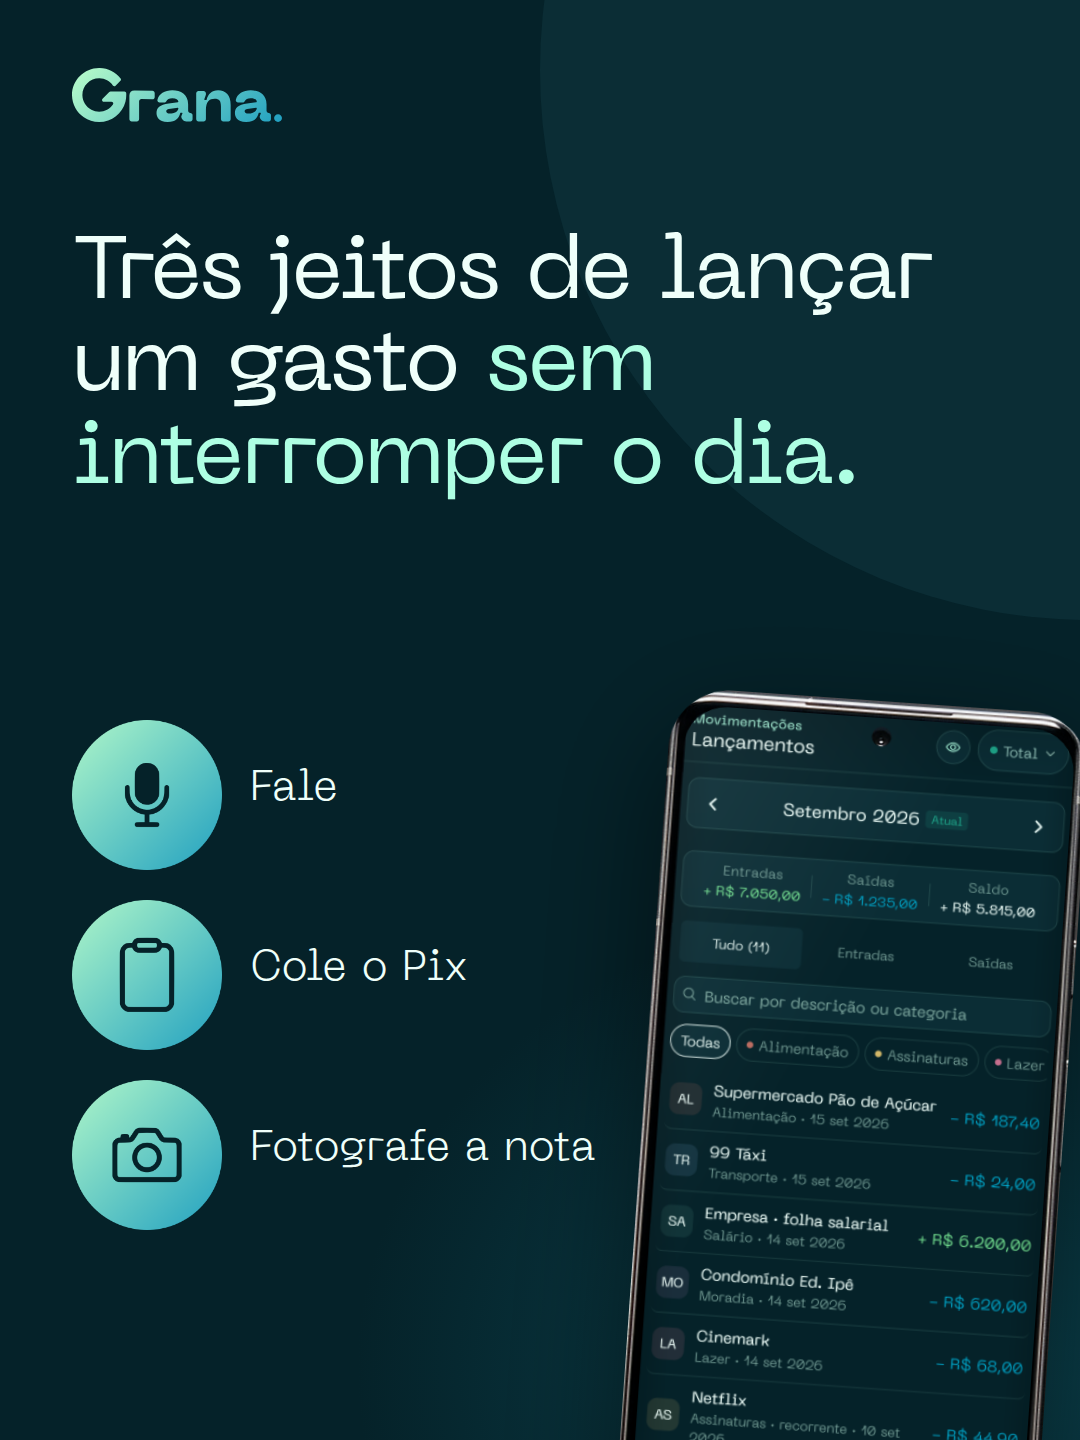
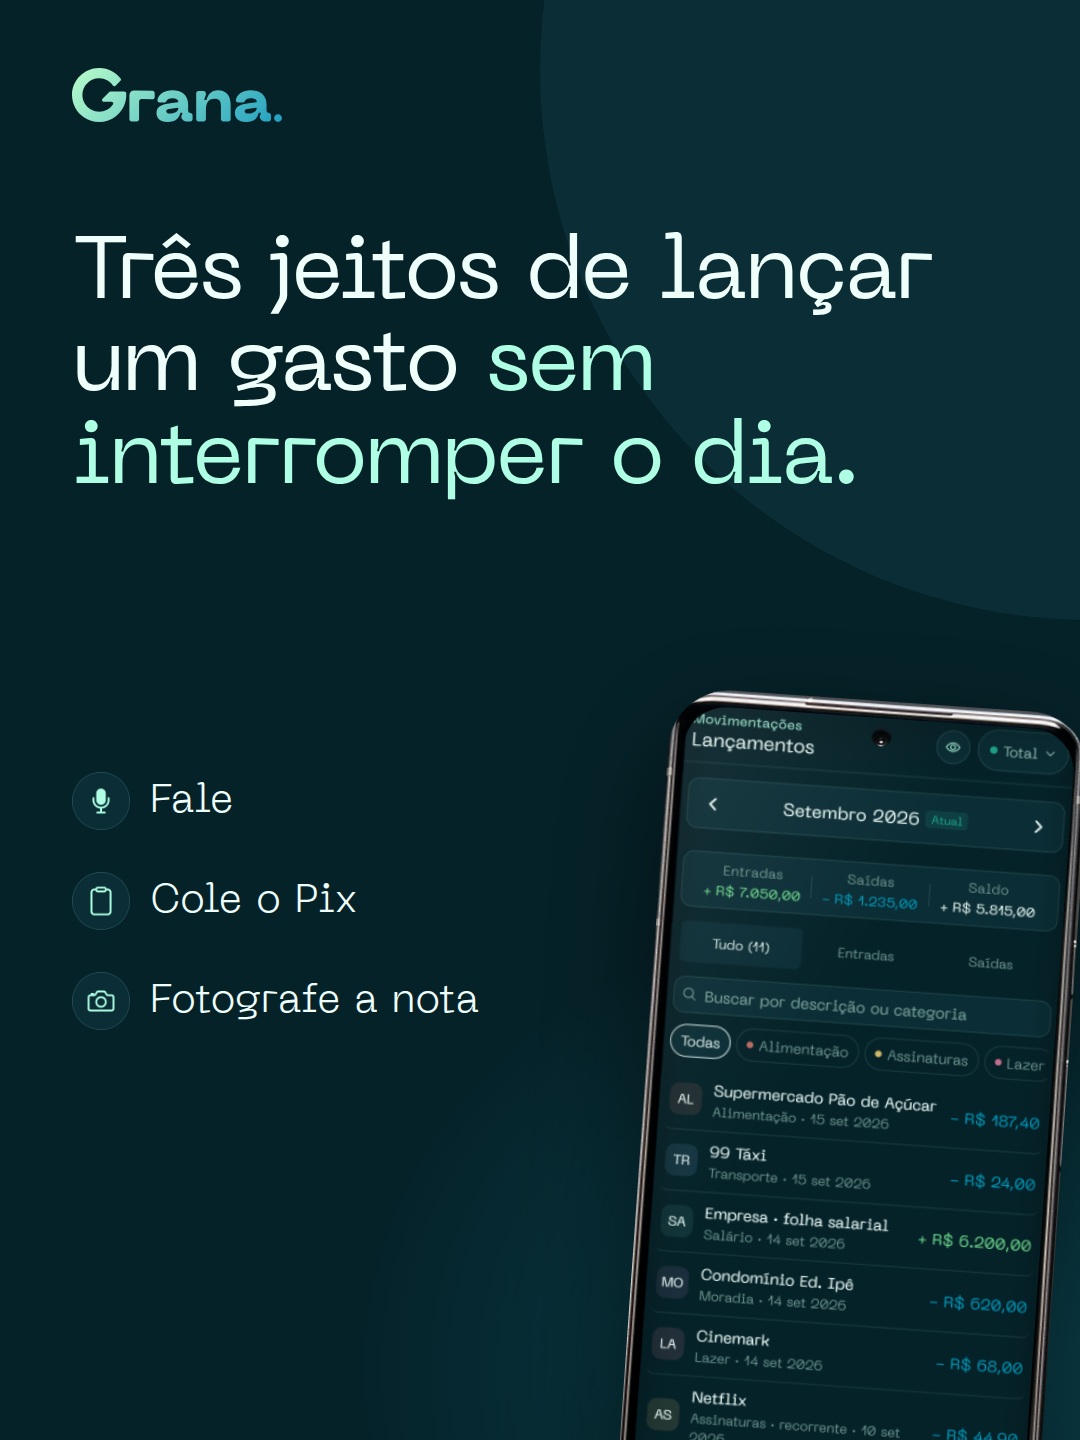
docs(marketing): S2 com icones so como detalhe; regra no guia de producao
Claude-Session: https://claude.ai/code/session_01Fv8uFkxWiJMthXkKAtJfu8

Changed region(s): [[0.0611, 0.5, 0.55, 0.875], [0.275, 0.5938, 0.3056, 0.625]]

diff --git a/docs/marketing/funil-criativos-flat-2026-09/S2-tres-jeitos/S2.html b/docs/marketing/funil-criativos-flat-2026-09/S2-tres-jeitos/S2.html
@@ -21,18 +21,26 @@ em{font-style:normal;color:#aeffe3}
 .fala b{font-weight:400;color:#aeffe3}
 .arc{position:absolute;border-radius:50%}
 .cta{position:absolute;left:0;right:0;text-align:center;font-family:NM;color:#effffa}
+.cupom{position:absolute;left:390px;top:640px;width:300px;height:520px;background:#eef1ea;border-radius:6px;padding:40px 34px;transform:rotate(-6deg);box-shadow:0 30px 60px rgba(0,0,0,.45);z-index:2}
+.cupom i{display:block;height:14px;border-radius:7px;background:#c9cfc8;margin:0 0 22px;width:90%}
+.cupom b{display:block;height:3px;background:repeating-linear-gradient(90deg,#b7beb6 0 10px,transparent 10px 18px);margin:10px 0 30px}
+.mira{position:absolute;left:330px;top:600px;width:420px;height:600px;z-index:3}
+.mira span{position:absolute;width:70px;height:70px;border:6px solid #aeffe3;border-radius:0}
+.mira .k1{left:0;top:0;border-right:0;border-bottom:0;border-top-left-radius:24px}.mira .k2{right:0;top:0;border-left:0;border-bottom:0;border-top-right-radius:24px}
+.mira .k3{left:0;bottom:0;border-right:0;border-top:0;border-bottom-left-radius:24px}.mira .k4{right:0;bottom:0;border-left:0;border-top:0;border-bottom-right-radius:24px}
+.passos img{width:52px;height:52px}
 </style></head><body>
 <!-- 1 capa -->
 <div class="s" id="s1">
  <div class="arc" style="width:1100px;height:1100px;right:-560px;top:-480px;background:#0b2d35"></div>
  <img class="logo" src="../../../../design-system/marca/logotipo-gradiente.svg">
  <div class="h1" style="top:230px;width:960px;font-size:88px">Três jeitos de lançar um gasto <em>sem interromper o dia.</em></div>
- <img class="big" src="../../arsenal/icones/voz-gradiente.png" style="left:72px;top:720px;width:150px">
- <img class="big" src="../../arsenal/icones/colar-comprovante-gradiente.png" style="left:72px;top:900px;width:150px">
- <img class="big" src="../../arsenal/icones/foto-da-nota-gradiente.png" style="left:72px;top:1080px;width:150px">
- <div class="fala" style="left:250px;top:763px;font-size:42px">Fale</div>
- <div class="fala" style="left:250px;top:943px;font-size:42px">Cole o Pix</div>
- <div class="fala" style="left:250px;top:1123px;font-size:42px">Fotografe a nota</div>
+ <img class="big" src="../../arsenal/icones/voz-petroleo.png" style="left:72px;top:772px;width:58px">
+ <img class="big" src="../../arsenal/icones/colar-comprovante-petroleo.png" style="left:72px;top:872px;width:58px">
+ <img class="big" src="../../arsenal/icones/foto-da-nota-petroleo.png" style="left:72px;top:972px;width:58px">
+ <div class="fala" style="left:150px;top:776px;font-size:40px">Fale</div>
+ <div class="fala" style="left:150px;top:876px;font-size:40px">Cole o Pix</div>
+ <div class="fala" style="left:150px;top:976px;font-size:40px">Fotografe a nota</div>
  <div class="ph" data-k="1.05" style="left:640px;top:700px;transform:rotate(4deg)"><div class="body"></div><div class="scr"><img src="telas/cel-lanc-tela.png"></div></div>
 </div>
 <!-- 2 fale -->
@@ -40,8 +48,8 @@ em{font-style:normal;color:#aeffe3}
  <img class="logo" src="../../../../design-system/marca/logotipo-gradiente.svg"><div class="passos" data-on="0"></div>
  <div class="h1"><em>1.</em> Fale o que aconteceu.</div>
  <div class="h2" style="top:420px">Pagou? Toque no widget e fale o gasto. O Grana. lança sem abrir o app.</div>
- <img class="big" src="../../arsenal/icones/voz-gradiente.png" style="left:72px;top:690px;width:230px">
- <div class="fala" style="left:340px;top:700px;width:670px">“Pão na padaria, <b>três e cinquenta e sete</b>, no débito.”</div>
+ 
+ <div class="fala" style="left:72px;top:660px;width:900px;font-size:50px">“Pão na padaria, <b>três e cinquenta e sete</b>, no débito.”</div>
  <img class="nt" src="../../arsenal/notificacoes/gasto-salvo-padaria.png" style="left:110px;top:1000px;width:860px">
 </div>
 <!-- 3 cole -->
@@ -56,7 +64,8 @@ em{font-style:normal;color:#aeffe3}
  <img class="logo" src="../../../../design-system/marca/logotipo-gradiente.svg"><div class="passos" data-on="2"></div>
  <div class="h1"><em>3.</em> Fotografe a nota.</div>
  <div class="h2" style="top:420px">Uma foto do cupom e o Grana. lê o valor total sozinho.</div>
- <img class="big" src="../../arsenal/icones/foto-da-nota-gradiente.png" style="left:50%;top:700px;width:400px;margin-left:-200px">
+ <div class="cupom"><i></i><i style="width:70%"></i><i style="width:85%"></i><i style="width:60%"></i><i style="width:78%"></i><i style="width:52%"></i><b></b><i style="width:66%"></i><i style="width:74%"></i></div>
+ <div class="mira"><span class="k1"></span><span class="k2"></span><span class="k3"></span><span class="k4"></span></div>
 </div>
 <!-- 5 organiza -->
 <div class="s" id="s5">
@@ -85,6 +94,6 @@ em{font-style:normal;color:#aeffe3}
 document.querySelectorAll('.ph').forEach(p=>{const k=+p.dataset.k;const W=401*k,H=876*k;p.style.width=W+'px';p.style.height=H+'px';
  const b=p.querySelector('.body');b.style.borderRadius=(58*k)+'px';b.style.backgroundSize=`${2048*k}px ${1152*k}px`;b.style.backgroundPosition=`${-831*k}px ${-115*k}px`;
  const s=p.querySelector('.scr');Object.assign(s.style,{left:14*k+'px',top:16*k+'px',width:373*k+'px',height:846*k+'px',borderRadius:40*k+'px'})});
-document.querySelectorAll('.passos').forEach(p=>{const on=+p.dataset.on;p.innerHTML=['voz','colar-comprovante','foto-da-nota'].map((n,i)=>`<img class="${i==on?'on':''}" src="${n}-${i==on?'gradiente':'petroleo'}.png">`).join('')});
+document.querySelectorAll('.passos').forEach(p=>{const on=+p.dataset.on;p.innerHTML=['voz','colar-comprovante','foto-da-nota'].map((n,i)=>`<img class="${i==on?'on':''}" src="../../arsenal/icones/${n}-${i==on?'gradiente':'petroleo'}.png">`).join('')});
 const n=new URLSearchParams(location.search).get('s')||'1';document.getElementById('s'+n).classList.add('on');
 </script></body></html>

diff --git a/docs/marketing/funil-criativos-flat-2026-09/S2-tres-jeitos/README.md b/docs/marketing/funil-criativos-flat-2026-09/S2-tres-jeitos/README.md
@@ -4,10 +4,10 @@ Carrossel de feed com 7 slides em 1080×1440. É o S2 do calendário do `FUNIL.m
 
 | Slide | Texto | Visual |
 |---|---|---|
-| 1 | Três jeitos de lançar um gasto **sem interromper o dia.** | três selos do arsenal (voz, colar, foto da nota) e celular com a tela real de Lançamentos |
-| 2 | **1.** Fale o que aconteceu. | selo de voz, a fala entre aspas e a notificação real "Pão na padaria · R$ 3,57" |
+| 1 | Três jeitos de lançar um gasto **sem interromper o dia.** | lista "Fale / Cole o Pix / Fotografe a nota", com ícones pequenos do arsenal só de detalhe, e o celular com a tela real de Lançamentos |
+| 2 | **1.** Fale o que aconteceu. | a fala entre aspas, grande, e a notificação real "Pão na padaria · R$ 3,57" |
 | 3 | **2.** Cole o texto do Pix. | celular com a **tela real** "Colar comprovante ou Pix" (quadro do `r5-clipe.mp4`, com o acento corrigido) |
-| 4 | **3.** Fotografe a nota. | selo da câmera, grande. Não há tela, porque a função ainda não está publicada |
+| 4 | **3.** Fotografe a nota. | cupom estilizado, sem texto legível, dentro dos cantos de mira em menta, como a moldura do leitor do app. Não há tela, porque a função ainda não está publicada |
 | 5 | O Grana. **organiza** o lançamento. | celular com a **tela real** "Confirmar lançamento" (Mercado Modelo, R$ 32,90, Alimentação) |
 | 6 | E você volta para o que **estava fazendo.** | três notificações de gasto salvo do arsenal, empilhadas |
 | 7 | Veja como **funciona.** | celular com Lançamentos e o logotipo |
@@ -20,3 +20,5 @@ Carrossel de feed com 7 slides em 1080×1440. É o S2 do calendário do `FUNIL.m
 - quando estiver, vale trocar o selo do slide 4 por uma captura real do fluxo.
 
 **Para regenerar:** abra `S2.html?s=N`, com N de 1 a 7, no Chromium em 1080×1440 e fotografe.
+
+**Revisão do autor (27/09/2026):** ícones grandes em destaque não. Eles ficam só como detalhe visual, pequenos e discretos. Na capa, os ícones viraram marcadores de 58 px. No slide 2, o selo grande saiu. No slide 4, a câmera grande deu lugar ao cupom com a mira.

diff --git a/docs/marketing/GUIA-DE-PRODUCAO-DE-CRIATIVOS.md b/docs/marketing/GUIA-DE-PRODUCAO-DE-CRIATIVOS.md
@@ -40,6 +40,7 @@ Leia este guia **antes de produzir qualquer criativo**: estático, carrossel, St
 
 ## 3. Regras de composição que o autor já cobrou
 
+- **Ícone é detalhe, nunca protagonista** (autor, 27/09/2026): use os do arsenal pequenos (marcador de lista, selo no canto, indicador de passo), sem ocupar o centro do card.
 - **Sem sobretítulo** (etiqueta em caixa alta no canto) e **sem o rodapé** "Demonstração com dados fictícios.".
 - **Sem botão desenhado na arte.** O "Saiba mais" é do Instagram.
 - **Stories:** o texto fica entre y ≈ 230 e 1400. A parte de baixo pode ser coberta pela barra de resposta e pelo "Saiba mais".
